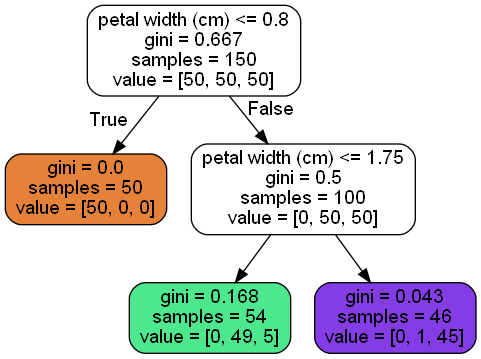
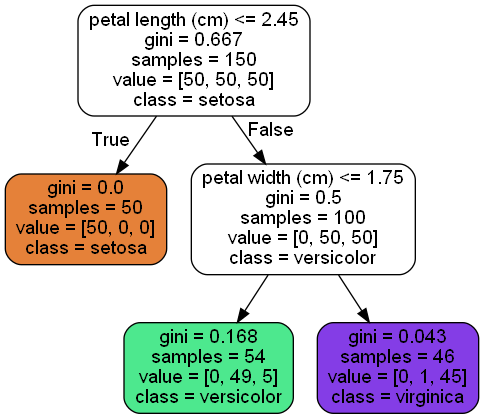
plot decision tree

Changed region(s): [[0.0, 0.0, 0.9979, 1.0], [0.2495, 0.7047, 0.6237, 1.0]]

diff --git a/handson/06_decision_trees/visualization.py b/handson/06_decision_trees/visualization.py
@@ -12,6 +12,7 @@ def graphviz_image(clf, iris):
         clf,
         out_file=os.path.join("./images/", "iris_tree.dot"),
         feature_names=iris.feature_names[2:],
+        class_names=iris.target_names,
         rounded=True,
         filled=True
     )
@@ -33,8 +34,8 @@ def plot_decision_boundary(clf, X, y, axes=[0, 7.5, 0, 3], iris=True, legend=Fal
         plt.contour(x1, x2, y_pred, cmap=custom_cmap2, alpha=0.8)
     if plot_training:
         plt.plot(X[:, 0][y == 0], X[:, 1][y == 0], "yo", label="Iris setosa")
-        plt.plot(X[:, 0][y == 1], X[:, 1][y == 1], "yo", label="Iris versicolor")
-        plt.plot(X[:, 0][y == 2], X[:, 1][y == 2], "yo", label="Iris virginica")
+        plt.plot(X[:, 0][y == 1], X[:, 1][y == 1], "bs", label="Iris versicolor")
+        plt.plot(X[:, 0][y == 2], X[:, 1][y == 2], "g^", label="Iris virginica")
     if iris:
         plt.xlabel("Petal width", fontsize=14)
         plt.ylabel("Petal height", fontsize=14)

diff --git a/handson/06_decision_trees/basic_decision_tree_example.py b/handson/06_decision_trees/basic_decision_tree_example.py
@@ -2,8 +2,10 @@ import os
 
 from sklearn.datasets import load_iris
 from sklearn.tree import DecisionTreeClassifier
+import matplotlib.pyplot as plt
 
 import visualization as vv
+
 
 def run():
     iris = load_iris()
@@ -14,6 +16,15 @@ def run():
     tree_clf = DecisionTreeClassifier(max_depth=2)
     tree_clf.fit(X, y)
 
-    print(tree_clf)
+    # vv.graphviz_image(tree_clf, iris)
 
-    vv.graphviz_image(tree_clf, iris)
+    plt.figure(figsize=(8, 4))
+    vv.plot_decision_boundary(tree_clf, X, y, legend=True)
+    plt.plot([2.45, 2.45], [0, 3], "k-", linewidth=2)
+    plt.plot([2.45, 7.5], [1.75, 1.75], "k--", linewidth=2)
+    plt.plot([4.95, 4.95], [0, 1.75], "k:", linewidth=2)
+    plt.plot([4.85, 4.85], [1.75, 3], "k:", linewidth=2)
+    plt.text(1.40, 1.0, "Depth=0", fontsize=15)
+    plt.text(3.2, 1.80, "Depth=1", fontsize=13)
+    plt.text(4.05, 0.5, "Depth=2", fontsize=11)
+    plt.show()
